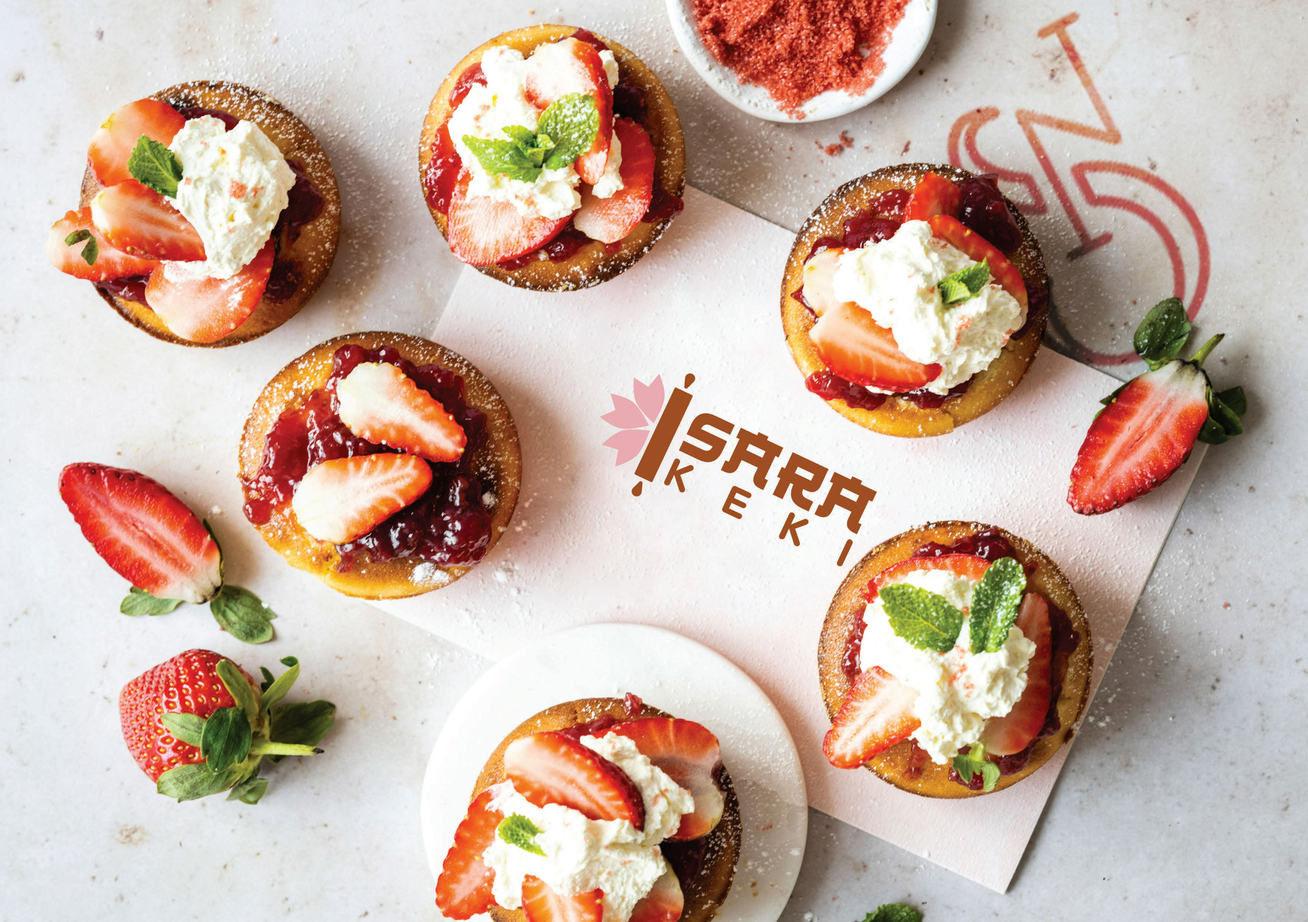
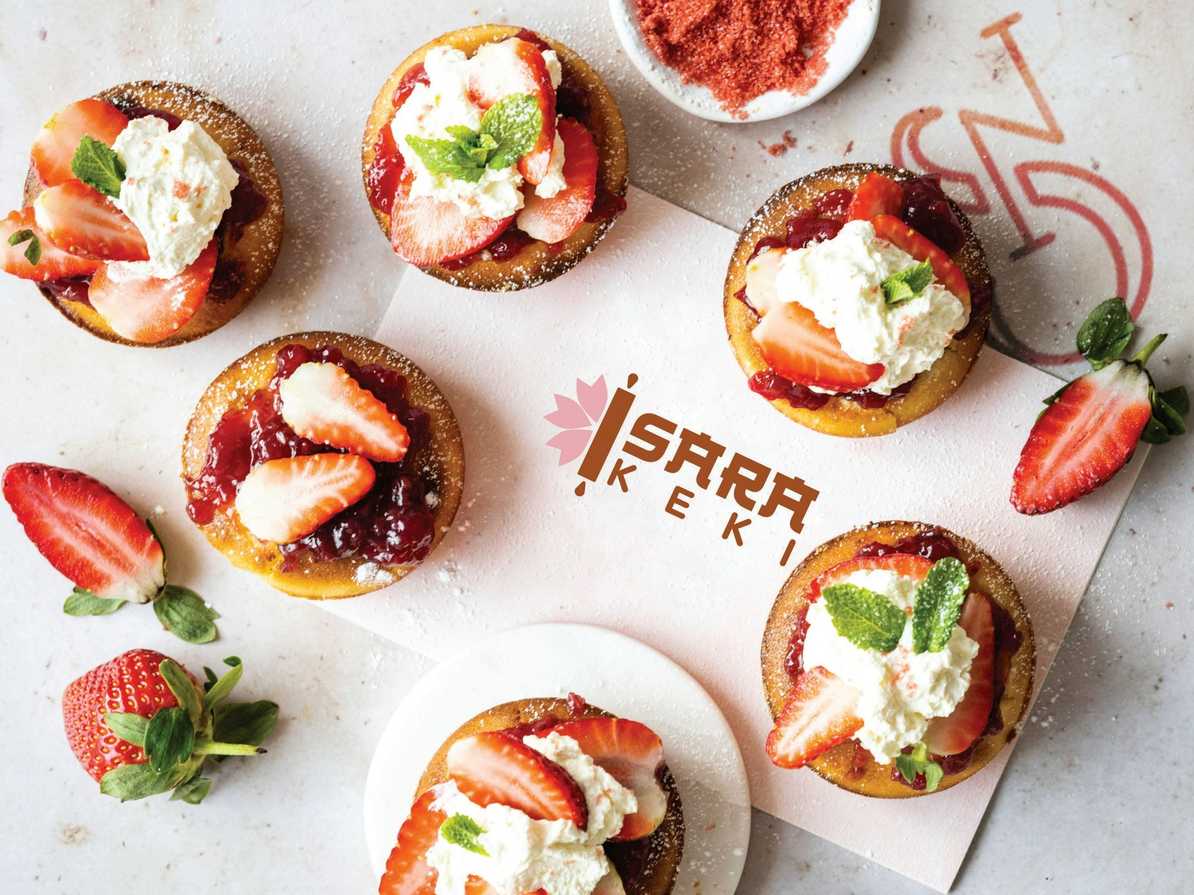
Resize images
Resize all images for home page gallery

diff --git a/css/index.css b/css/index.css
@@ -212,6 +212,7 @@ section {
     display: grid;
     grid-template-columns: repeat(3, 1fr);
     gap: 24px;
+    margin:2em;
 }
 
 #indexproj .gallery img {
@@ -295,6 +296,7 @@ section {
 
     #indexproj .gallery img {
        height: 240px;
+       width: auto;
     }
 
     .tickerwrapper ul.list li {
